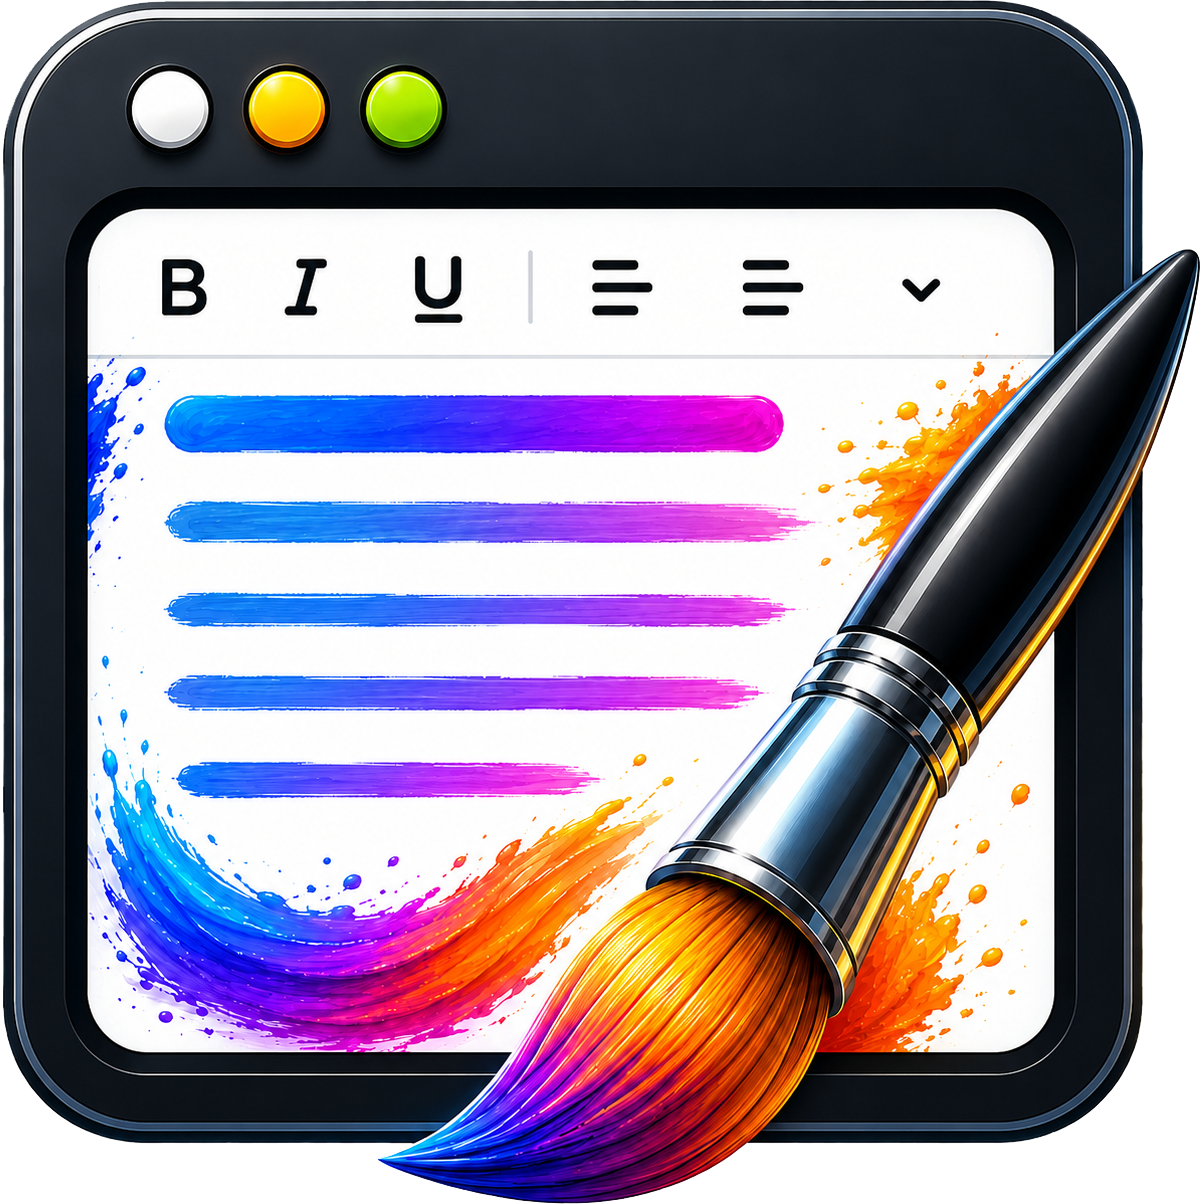
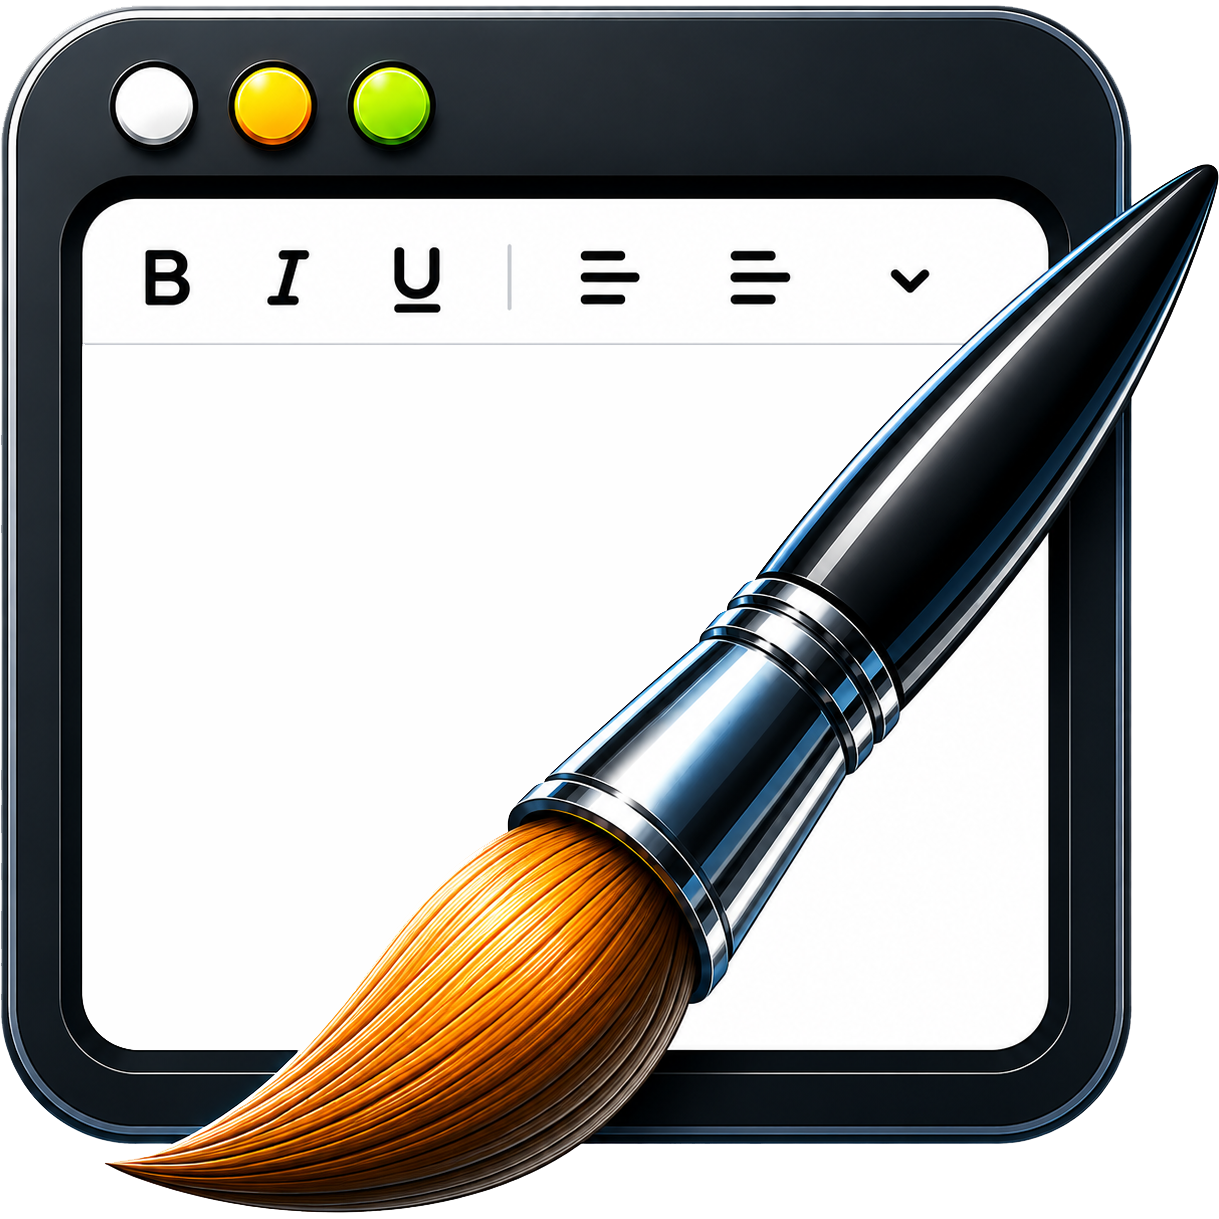
Updating repository.

diff --git a/_framework/dotnet.js b/_framework/dotnet.js
@@ -4,7 +4,7 @@
 var e=!1;const t=async()=>WebAssembly.validate(new Uint8Array([0,97,115,109,1,0,0,0,1,4,1,96,0,0,3,2,1,0,10,8,1,6,0,6,64,25,11,11])),o=async()=>WebAssembly.validate(new Uint8Array([0,97,115,109,1,0,0,0,1,5,1,96,0,1,123,3,2,1,0,10,15,1,13,0,65,1,253,15,65,2,253,15,253,128,2,11])),n=async()=>WebAssembly.validate(new Uint8Array([0,97,115,109,1,0,0,0,1,5,1,96,0,1,123,3,2,1,0,10,10,1,8,0,65,0,253,15,253,98,11])),r=Symbol.for("wasm promise_control");function i(e,t){let o=null;const n=new Promise((function(n,r){o={isDone:!1,promise:null,resolve:t=>{o.isDone||(o.isDone=!0,n(t),e&&e())},reject:e=>{o.isDone||(o.isDone=!0,r(e),t&&t())}}}));o.promise=n;const i=n;return i[r]=o,{promise:i,promise_control:o}}function s(e){return e[r]}function a(e){e&&function(e){return void 0!==e[r]}(e)||Be(!1,"Promise is not controllable")}const l="__mono_message__",c=["debug","log","trace","warn","info","error"],d="MONO_WASM: ";let u,f,m,g,p,h;function w(e){g=e}function b(e){if(Pe.diagnosticTracing){const t="function"==typeof e?e():e;console.debug(d+t)}}function y(e,...t){console.info(d+e,...t)}function v(e,...t){console.info(e,...t)}function E(e,...t){console.warn(d+e,...t)}function _(e,...t){if(t&&t.length>0&&t[0]&&"object"==typeof t[0]){if(t[0].silent)return;if(t[0].toString)return void console.error(d+e,t[0].toString())}console.error(d+e,...t)}function x(e,t,o){return function(...n){try{let r=n[0];if(void 0===r)r="undefined";else if(null===r)r="null";else if("function"==typeof r)r=r.toString();else if("string"!=typeof r)try{r=JSON.stringify(r)}catch(e){r=r.toString()}t(o?JSON.stringify({method:e,payload:r,arguments:n.slice(1)}):[e+r,...n.slice(1)])}catch(e){m.error(`proxyConsole failed: ${e}`)}}}function j(e,t,o){f=t,g=e,m={...t};const n=`${o}/console`.replace("https://","wss://").replace("http://","ws://");u=new WebSocket(n),u.addEventListener("error",A),u.addEventListener("close",S),function(){for(const e of c)f[e]=x(`console.${e}`,T,!0)}()}function R(e){let t=30;const o=()=>{u?0==u.bufferedAmount||0==t?(e&&v(e),function(){for(const e of c)f[e]=x(`console.${e}`,m.log,!1)}(),u.removeEventListener("error",A),u.removeEventListener("close",S),u.close(1e3,e),u=void 0):(t--,globalThis.setTimeout(o,100)):e&&m&&m.log(e)};o()}function T(e){u&&u.readyState===WebSocket.OPEN?u.send(e):m.log(e)}function A(e){m.error(`[${g}] proxy console websocket error: ${e}`,e)}function S(e){m.debug(`[${g}] proxy console websocket closed: ${e}`,e)}function D(){Pe.preferredIcuAsset=O(Pe.config);let e="invariant"==Pe.config.globalizationMode;if(!e)if(Pe.preferredIcuAsset)Pe.diagnosticTracing&&b("ICU data archive(s) available, disabling invariant mode");else{if("custom"===Pe.config.globalizationMode||"all"===Pe.config.globalizationMode||"sharded"===Pe.config.globalizationMode){const e="invariant globalization mode is inactive and no ICU data archives are available";throw _(`ERROR: ${e}`),new Error(e)}Pe.diagnosticTracing&&b("ICU data archive(s) not available, using invariant globalization mode"),e=!0,Pe.preferredIcuAsset=null}const t="DOTNET_SYSTEM_GLOBALIZATION_INVARIANT",o=Pe.config.environmentVariables;if(void 0===o[t]&&e&&(o[t]="1"),void 0===o.TZ)try{const e=Intl.DateTimeFormat().resolvedOptions().timeZone||null;e&&(o.TZ=e)}catch(e){y("failed to detect timezone, will fallback to UTC")}}function O(e){var t;if((null===(t=e.resources)||void 0===t?void 0:t.icu)&&"invariant"!=e.globalizationMode){const t=e.applicationCulture||(ke?globalThis.navigator&&globalThis.navigator.languages&&globalThis.navigator.languages[0]:Intl.DateTimeFormat().resolvedOptions().locale),o=e.resources.icu;let n=null;if("custom"===e.globalizationMode){if(o.length>=1)return o[0].name}else t&&"all"!==e.globalizationMode?"sharded"===e.globalizationMode&&(n=function(e){const t=e.split("-")[0];return"en"===t||["fr","fr-FR","it","it-IT","de","de-DE","es","es-ES"].includes(e)?"icudt_EFIGS.dat":["zh","ko","ja"].includes(t)?"icudt_CJK.dat":"icudt_no_CJK.dat"}(t)):n="icudt.dat";if(n)for(let e=0;e<o.length;e++){const t=o[e];if(t.virtualPath===n)return t.name}}return e.globalizationMode="invariant",null}(new Date).valueOf();const C=class{constructor(e){this.url=e}toString(){return this.url}};async function k(e,t){try{const o="function"==typeof globalThis.fetch;if(Se){const n=e.startsWith("file://");if(!n&&o)return globalThis.fetch(e,t||{credentials:"same-origin"});p||(h=Ne.require("url"),p=Ne.require("fs")),n&&(e=h.fileURLToPath(e));const r=await p.promises.readFile(e);return{ok:!0,headers:{length:0,get:()=>null},url:e,arrayBuffer:()=>r,json:()=>JSON.parse(r),text:()=>{throw new Error("NotImplementedException")}}}if(o)return globalThis.fetch(e,t||{credentials:"same-origin"});if("function"==typeof read)return{ok:!0,url:e,headers:{length:0,get:()=>null},arrayBuffer:()=>new Uint8Array(read(e,"binary")),json:()=>JSON.parse(read(e,"utf8")),text:()=>read(e,"utf8")}}catch(t){return{ok:!1,url:e,status:500,headers:{length:0,get:()=>null},statusText:"ERR28: "+t,arrayBuffer:()=>{throw t},json:()=>{throw t},text:()=>{throw t}}}throw new Error("No fetch implementation available")}function I(e){return"string"!=typeof e&&Be(!1,"url must be a string"),!M(e)&&0!==e.indexOf("./")&&0!==e.indexOf("../")&&globalThis.URL&&globalThis.document&&globalThis.document.baseURI&&(e=new URL(e,globalThis.document.baseURI).toString()),e}const U=/^[a-zA-Z][a-zA-Z\d+\-.]*?:\/\//,P=/[a-zA-Z]:[\\/]/;function M(e){return Se||Ie?e.startsWith("/")||e.startsWith("\\")||-1!==e.indexOf("///")||P.test(e):U.test(e)}let L,N=0;const $=[],z=[],W=new Map,F={"js-module-threads":!0,"js-module-runtime":!0,"js-module-dotnet":!0,"js-module-native":!0,"js-module-diagnostics":!0},B={...F,"js-module-library-initializer":!0},V={...F,dotnetwasm:!0,heap:!0,manifest:!0},q={...B,manifest:!0},H={...B,dotnetwasm:!0},J={dotnetwasm:!0,symbols:!0},Z={...B,dotnetwasm:!0,symbols:!0},Q={symbols:!0};function G(e){return!("icu"==e.behavior&&e.name!=Pe.preferredIcuAsset)}function K(e,t,o){null!=t||(t=[]),Be(1==t.length,`Expect to have one ${o} asset in resources`);const n=t[0];return n.behavior=o,X(n),e.push(n),n}function X(e){V[e.behavior]&&W.set(e.behavior,e)}function Y(e){Be(V[e],`Unknown single asset behavior ${e}`);const t=W.get(e);if(t&&!t.resolvedUrl)if(t.resolvedUrl=Pe.locateFile(t.name),F[t.behavior]){const e=ge(t);e?("string"!=typeof e&&Be(!1,"loadBootResource response for 'dotnetjs' type should be a URL string"),t.resolvedUrl=e):t.resolvedUrl=ce(t.resolvedUrl,t.behavior)}else if("dotnetwasm"!==t.behavior)throw new Error(`Unknown single asset behavior ${e}`);return t}function ee(e){const t=Y(e);return Be(t,`Single asset for ${e} not found`),t}let te=!1;async function oe(){if(!te){te=!0,Pe.diagnosticTracing&&b("mono_download_assets");try{const e=[],t=[],o=(e,t)=>{!Z[e.behavior]&&G(e)&&Pe.expected_instantiated_assets_count++,!H[e.behavior]&&G(e)&&(Pe.expected_downloaded_assets_count++,t.push(se(e)))};for(const t of $)o(t,e);for(const e of z)o(e,t);Pe.allDownloadsQueued.promise_control.resolve(),Promise.all([...e,...t]).then((()=>{Pe.allDownloadsFinished.promise_control.resolve()})).catch((e=>{throw Pe.err("Error in mono_download_assets: "+e),Xe(1,e),e})),await Pe.runtimeModuleLoaded.promise;const n=async e=>{const t=await e;if(t.buffer){if(!Z[t.behavior]){t.buffer&&"object"==typeof t.buffer||Be(!1,"asset buffer must be array-like or buffer-like or promise of these"),"string"!=typeof t.resolvedUrl&&Be(!1,"resolvedUrl must be string");const e=t.resolvedUrl,o=await t.buffer,n=new Uint8Array(o);pe(t),await Ue.beforeOnRuntimeInitialized.promise,Ue.instantiate_asset(t,e,n)}}else J[t.behavior]?("symbols"===t.behavior&&(await Ue.instantiate_symbols_asset(t),pe(t)),J[t.behavior]&&++Pe.actual_downloaded_assets_count):(t.isOptional||Be(!1,"Expected asset to have the downloaded buffer"),!H[t.behavior]&&G(t)&&Pe.expected_downloaded_assets_count--,!Z[t.behavior]&&G(t)&&Pe.expected_instantiated_assets_count--)},r=[],i=[];for(const t of e)r.push(n(t));for(const e of t)i.push(n(e));Promise.all(r).then((()=>{Ce||Ue.coreAssetsInMemory.promise_control.resolve()})).catch((e=>{throw Pe.err("Error in mono_download_assets: "+e),Xe(1,e),e})),Promise.all(i).then((async()=>{Ce||(await Ue.coreAssetsInMemory.promise,Ue.allAssetsInMemory.promise_control.resolve())})).catch((e=>{throw Pe.err("Error in mono_download_assets: "+e),Xe(1,e),e}))}catch(e){throw Pe.err("Error in mono_download_assets: "+e),e}}}let ne=!1;function re(){if(ne)return;ne=!0;const e=Pe.config,t=[];if(e.assets)for(const t of e.assets)"object"!=typeof t&&Be(!1,`asset must be object, it was ${typeof t} : ${t}`),"string"!=typeof t.behavior&&Be(!1,"asset behavior must be known string"),"string"!=typeof t.name&&Be(!1,"asset name must be string"),t.resolvedUrl&&"string"!=typeof t.resolvedUrl&&Be(!1,"asset resolvedUrl could be string"),t.hash&&"string"!=typeof t.hash&&Be(!1,"asset resolvedUrl could be string"),t.pendingDownload&&"object"!=typeof t.pendingDownload&&Be(!1,"asset pendingDownload could be object"),t.isCore?$.push(t):z.push(t),X(t);else if(e.resources){const o=e.resources;o.wasmNative||Be(!1,"resources.wasmNative must be defined"),o.jsModuleNative||Be(!1,"resources.jsModuleNative must be defined"),o.jsModuleRuntime||Be(!1,"resources.jsModuleRuntime must be defined"),K(z,o.wasmNative,"dotnetwasm"),K(t,o.jsModuleNative,"js-module-native"),K(t,o.jsModuleRuntime,"js-module-runtime"),o.jsModuleDiagnostics&&K(t,o.jsModuleDiagnostics,"js-module-diagnostics");const n=(e,t,o)=>{const n=e;n.behavior=t,o?(n.isCore=!0,$.push(n)):z.push(n)};if(o.coreAssembly)for(let e=0;e<o.coreAssembly.length;e++)n(o.coreAssembly[e],"assembly",!0);if(o.assembly)for(let e=0;e<o.assembly.length;e++)n(o.assembly[e],"assembly",!o.coreAssembly);if(0!=e.debugLevel&&Pe.isDebuggingSupported()){if(o.corePdb)for(let e=0;e<o.corePdb.length;e++)n(o.corePdb[e],"pdb",!0);if(o.pdb)for(let e=0;e<o.pdb.length;e++)n(o.pdb[e],"pdb",!o.corePdb)}if(e.loadAllSatelliteResources&&o.satelliteResources)for(const e in o.satelliteResources)for(let t=0;t<o.satelliteResources[e].length;t++){const r=o.satelliteResources[e][t];r.culture=e,n(r,"resource",!o.coreAssembly)}if(o.coreVfs)for(let e=0;e<o.coreVfs.length;e++)n(o.coreVfs[e],"vfs",!0);if(o.vfs)for(let e=0;e<o.vfs.length;e++)n(o.vfs[e],"vfs",!o.coreVfs);const r=O(e);if(r&&o.icu)for(let e=0;e<o.icu.length;e++){const t=o.icu[e];t.name===r&&n(t,"icu",!1)}if(o.wasmSymbols)for(let e=0;e<o.wasmSymbols.length;e++)n(o.wasmSymbols[e],"symbols",!1)}if(e.appsettings)for(let t=0;t<e.appsettings.length;t++){const o=e.appsettings[t],n=he(o);"appsettings.json"!==n&&n!==`appsettings.${e.applicationEnvironment}.json`||z.push({name:o,behavior:"vfs",cache:"no-cache",useCredentials:!0})}e.assets=[...$,...z,...t]}async function ie(e){const t=await se(e);return await t.pendingDownloadInternal.response,t.buffer}async function se(e){try{return await ae(e)}catch(t){if(!Pe.enableDownloadRetry)throw t;if(Ie||Se)throw t;if(e.pendingDownload&&e.pendingDownloadInternal==e.pendingDownload)throw t;if(e.resolvedUrl&&-1!=e.resolvedUrl.indexOf("file://"))throw t;if(t&&404==t.status)throw t;e.pendingDownloadInternal=void 0,await Pe.allDownloadsQueued.promise;try{return Pe.diagnosticTracing&&b(`Retrying download '${e.name}'`),await ae(e)}catch(t){return e.pendingDownloadInternal=void 0,await new Promise((e=>globalThis.setTimeout(e,100))),Pe.diagnosticTracing&&b(`Retrying download (2) '${e.name}' after delay`),await ae(e)}}}async function ae(e){for(;L;)await L.promise;try{++N,N==Pe.maxParallelDownloads&&(Pe.diagnosticTracing&&b("Throttling further parallel downloads"),L=i());const t=await async function(e){if(e.pendingDownload&&(e.pendingDownloadInternal=e.pendingDownload),e.pendingDownloadInternal&&e.pendingDownloadInternal.response)return e.pendingDownloadInternal.response;if(e.buffer){const t=await e.buffer;return e.resolvedUrl||(e.resolvedUrl="undefined://"+e.name),e.pendingDownloadInternal={url:e.resolvedUrl,name:e.name,response:Promise.resolve({ok:!0,arrayBuffer:()=>t,json:()=>JSON.parse(new TextDecoder("utf-8").decode(t)),text:()=>{throw new Error("NotImplementedException")},headers:{get:()=>{}}})},e.pendingDownloadInternal.response}const t=e.loadRemote&&Pe.config.remoteSources?Pe.config.remoteSources:[""];let o;for(let n of t){n=n.trim(),"./"===n&&(n="");const t=le(e,n);e.name===t?Pe.diagnosticTracing&&b(`Attempting to download '${t}'`):Pe.diagnosticTracing&&b(`Attempting to download '${t}' for ${e.name}`);try{e.resolvedUrl=t;const n=fe(e);if(e.pendingDownloadInternal=n,o=await n.response,!o||!o.ok)continue;return o}catch(e){o||(o={ok:!1,url:t,status:0,statusText:""+e});continue}}const n=e.isOptional||e.name.match(/\.pdb$/)&&Pe.config.ignorePdbLoadErrors;if(o||Be(!1,`Response undefined ${e.name}`),!n){const t=new Error(`download '${o.url}' for ${e.name} failed ${o.status} ${o.statusText}`);throw t.status=o.status,t}y(`optional download '${o.url}' for ${e.name} failed ${o.status} ${o.statusText}`)}(e);return t?(J[e.behavior]||(e.buffer=await t.arrayBuffer(),++Pe.actual_downloaded_assets_count),e):e}finally{if(--N,L&&N==Pe.maxParallelDownloads-1){Pe.diagnosticTracing&&b("Resuming more parallel downloads");const e=L;L=void 0,e.promise_control.resolve()}}}function le(e,t){let o;return null==t&&Be(!1,`sourcePrefix must be provided for ${e.name}`),e.resolvedUrl?o=e.resolvedUrl:(o=""===t?"assembly"===e.behavior||"pdb"===e.behavior?e.name:"resource"===e.behavior&&e.culture&&""!==e.culture?`${e.culture}/${e.name}`:e.name:t+e.name,o=ce(Pe.locateFile(o),e.behavior)),o&&"string"==typeof o||Be(!1,"attemptUrl need to be path or url string"),o}function ce(e,t){return Pe.modulesUniqueQuery&&q[t]&&(e+=Pe.modulesUniqueQuery),e}let de=0;const ue=new Set;function fe(e){try{e.resolvedUrl||Be(!1,"Request's resolvedUrl must be set");const t=function(e){let t=e.resolvedUrl;if(Pe.loadBootResource){const o=ge(e);if(o instanceof Promise)return o;"string"==typeof o&&(t=o)}const o={};return e.cache?o.cache=e.cache:Pe.config.disableNoCacheFetch||(o.cache="no-cache"),e.useCredentials?o.credentials="include":!Pe.config.disableIntegrityCheck&&e.hash&&(o.integrity=e.hash),Pe.fetch_like(t,o)}(e),o={name:e.name,url:e.resolvedUrl,response:t};return ue.add(e.name),o.response.then((()=>{"assembly"==e.behavior&&Pe.loadedAssemblies.push(e.name),de++,Pe.onDownloadResourceProgress&&Pe.onDownloadResourceProgress(de,ue.size)})),o}catch(t){const o={ok:!1,url:e.resolvedUrl,status:500,statusText:"ERR29: "+t,arrayBuffer:()=>{throw t},json:()=>{throw t}};return{name:e.name,url:e.resolvedUrl,response:Promise.resolve(o)}}}const me={resource:"assembly",assembly:"assembly",pdb:"pdb",icu:"globalization",vfs:"configuration",manifest:"manifest",dotnetwasm:"dotnetwasm","js-module-dotnet":"dotnetjs","js-module-native":"dotnetjs","js-module-runtime":"dotnetjs","js-module-threads":"dotnetjs"};function ge(e){var t;if(Pe.loadBootResource){const o=null!==(t=e.hash)&&void 0!==t?t:"",n=e.resolvedUrl,r=me[e.behavior];if(r){const t=Pe.loadBootResource(r,e.name,n,o,e.behavior);return"string"==typeof t?I(t):t}}}function pe(e){e.pendingDownloadInternal=null,e.pendingDownload=null,e.buffer=null,e.moduleExports=null}function he(e){let t=e.lastIndexOf("/");return t>=0&&t++,e.substring(t)}async function we(e){e&&await Promise.all((null!=e?e:[]).map((e=>async function(e){try{const t=e.name;if(!e.moduleExports){const o=ce(Pe.locateFile(t),"js-module-library-initializer");Pe.diagnosticTracing&&b(`Attempting to import '${o}' for ${e}`),e.moduleExports=await import(/*! webpackIgnore: true */o)}Pe.libraryInitializers.push({scriptName:t,exports:e.moduleExports})}catch(t){E(`Failed to import library initializer '${e}': ${t}`)}}(e))))}async function be(e,t){if(!Pe.libraryInitializers)return;const o=[];for(let n=0;n<Pe.libraryInitializers.length;n++){const r=Pe.libraryInitializers[n];r.exports[e]&&o.push(ye(r.scriptName,e,(()=>r.exports[e](...t))))}await Promise.all(o)}async function ye(e,t,o){try{await o()}catch(o){throw E(`Failed to invoke '${t}' on library initializer '${e}': ${o}`),Xe(1,o),o}}function ve(e,t){if(e===t)return e;const o={...t};return void 0!==o.assets&&o.assets!==e.assets&&(o.assets=[...e.assets||[],...o.assets||[]]),void 0!==o.resources&&(o.resources=_e(e.resources||{assembly:[],jsModuleNative:[],jsModuleRuntime:[],wasmNative:[]},o.resources)),void 0!==o.environmentVariables&&(o.environmentVariables={...e.environmentVariables||{},...o.environmentVariables||{}}),void 0!==o.runtimeOptions&&o.runtimeOptions!==e.runtimeOptions&&(o.runtimeOptions=[...e.runtimeOptions||[],...o.runtimeOptions||[]]),Object.assign(e,o)}function Ee(e,t){if(e===t)return e;const o={...t};return o.config&&(e.config||(e.config={}),o.config=ve(e.config,o.config)),Object.assign(e,o)}function _e(e,t){if(e===t)return e;const o={...t};return void 0!==o.coreAssembly&&(o.coreAssembly=[...e.coreAssembly||[],...o.coreAssembly||[]]),void 0!==o.assembly&&(o.assembly=[...e.assembly||[],...o.assembly||[]]),void 0!==o.lazyAssembly&&(o.lazyAssembly=[...e.lazyAssembly||[],...o.lazyAssembly||[]]),void 0!==o.corePdb&&(o.corePdb=[...e.corePdb||[],...o.corePdb||[]]),void 0!==o.pdb&&(o.pdb=[...e.pdb||[],...o.pdb||[]]),void 0!==o.jsModuleWorker&&(o.jsModuleWorker=[...e.jsModuleWorker||[],...o.jsModuleWorker||[]]),void 0!==o.jsModuleNative&&(o.jsModuleNative=[...e.jsModuleNative||[],...o.jsModuleNative||[]]),void 0!==o.jsModuleDiagnostics&&(o.jsModuleDiagnostics=[...e.jsModuleDiagnostics||[],...o.jsModuleDiagnostics||[]]),void 0!==o.jsModuleRuntime&&(o.jsModuleRuntime=[...e.jsModuleRuntime||[],...o.jsModuleRuntime||[]]),void 0!==o.wasmSymbols&&(o.wasmSymbols=[...e.wasmSymbols||[],...o.wasmSymbols||[]]),void 0!==o.wasmNative&&(o.wasmNative=[...e.wasmNative||[],...o.wasmNative||[]]),void 0!==o.icu&&(o.icu=[...e.icu||[],...o.icu||[]]),void 0!==o.satelliteResources&&(o.satelliteResources=function(e,t){if(e===t)return e;for(const o in t)e[o]=[...e[o]||[],...t[o]||[]];return e}(e.satelliteResources||{},o.satelliteResources||{})),void 0!==o.modulesAfterConfigLoaded&&(o.modulesAfterConfigLoaded=[...e.modulesAfterConfigLoaded||[],...o.modulesAfterConfigLoaded||[]]),void 0!==o.modulesAfterRuntimeReady&&(o.modulesAfterRuntimeReady=[...e.modulesAfterRuntimeReady||[],...o.modulesAfterRuntimeReady||[]]),void 0!==o.extensions&&(o.extensions={...e.extensions||{},...o.extensions||{}}),void 0!==o.vfs&&(o.vfs=[...e.vfs||[],...o.vfs||[]]),Object.assign(e,o)}function xe(){const e=Pe.config;if(e.environmentVariables=e.environmentVariables||{},e.runtimeOptions=e.runtimeOptions||[],e.resources=e.resources||{assembly:[],jsModuleNative:[],jsModuleWorker:[],jsModuleRuntime:[],wasmNative:[],vfs:[],satelliteResources:{}},e.assets){Pe.diagnosticTracing&&b("config.assets is deprecated, use config.resources instead");for(const t of e.assets){const o={};switch(t.behavior){case"assembly":o.assembly=[t];break;case"pdb":o.pdb=[t];break;case"resource":o.satelliteResources={},o.satelliteResources[t.culture]=[t];break;case"icu":o.icu=[t];break;case"symbols":o.wasmSymbols=[t];break;case"vfs":o.vfs=[t];break;case"dotnetwasm":o.wasmNative=[t];break;case"js-module-threads":o.jsModuleWorker=[t];break;case"js-module-runtime":o.jsModuleRuntime=[t];break;case"js-module-native":o.jsModuleNative=[t];break;case"js-module-diagnostics":o.jsModuleDiagnostics=[t];break;case"js-module-dotnet":break;default:throw new Error(`Unexpected behavior ${t.behavior} of asset ${t.name}`)}_e(e.resources,o)}}e.debugLevel,e.applicationEnvironment||(e.applicationEnvironment="Production"),e.applicationCulture&&(e.environmentVariables.LANG=`${e.applicationCulture}.UTF-8`),Ue.diagnosticTracing=Pe.diagnosticTracing=!!e.diagnosticTracing,Ue.waitForDebugger=e.waitForDebugger,Pe.maxParallelDownloads=e.maxParallelDownloads||Pe.maxParallelDownloads,Pe.enableDownloadRetry=void 0!==e.enableDownloadRetry?e.enableDownloadRetry:Pe.enableDownloadRetry}let je=!1;async function Re(e){var t;if(je)return void await Pe.afterConfigLoaded.promise;let o;try{if(e.configSrc||Pe.config&&0!==Object.keys(Pe.config).length&&(Pe.config.assets||Pe.config.resources)||(e.configSrc="dotnet.boot.js"),o=e.configSrc,je=!0,o&&(Pe.diagnosticTracing&&b("mono_wasm_load_config"),await async function(e){const t=e.configSrc,o=Pe.locateFile(t);let n=null;void 0!==Pe.loadBootResource&&(n=Pe.loadBootResource("manifest",t,o,"","manifest"));let r,i=null;if(n)if("string"==typeof n)n.includes(".json")?(i=await s(I(n)),r=await Ae(i)):r=(await import(I(n))).config;else{const e=await n;"function"==typeof e.json?(i=e,r=await Ae(i)):r=e.config}else o.includes(".json")?(i=await s(ce(o,"manifest")),r=await Ae(i)):r=(await import(ce(o,"manifest"))).config;function s(e){return Pe.fetch_like(e,{method:"GET",credentials:"include",cache:"no-cache"})}Pe.config.applicationEnvironment&&(r.applicationEnvironment=Pe.config.applicationEnvironment),ve(Pe.config,r)}(e)),xe(),await we(null===(t=Pe.config.resources)||void 0===t?void 0:t.modulesAfterConfigLoaded),await be("onRuntimeConfigLoaded",[Pe.config]),e.onConfigLoaded)try{await e.onConfigLoaded(Pe.config,Le),xe()}catch(e){throw _("onConfigLoaded() failed",e),e}xe(),Pe.afterConfigLoaded.promise_control.resolve(Pe.config)}catch(t){const n=`Failed to load config file ${o} ${t} ${null==t?void 0:t.stack}`;throw Pe.config=e.config=Object.assign(Pe.config,{message:n,error:t,isError:!0}),Xe(1,new Error(n)),t}}function Te(){return!!globalThis.navigator&&(Pe.isChromium||Pe.isFirefox)}async function Ae(e){const t=Pe.config,o=await e.json();t.applicationEnvironment||o.applicationEnvironment||(o.applicationEnvironment=e.headers.get("Blazor-Environment")||e.headers.get("DotNet-Environment")||void 0),o.environmentVariables||(o.environmentVariables={});const n=e.headers.get("DOTNET-MODIFIABLE-ASSEMBLIES");n&&(o.environmentVariables.DOTNET_MODIFIABLE_ASSEMBLIES=n);const r=e.headers.get("ASPNETCORE-BROWSER-TOOLS");return r&&(o.environmentVariables.__ASPNETCORE_BROWSER_TOOLS=r),o}"function"!=typeof importScripts||globalThis.onmessage||(globalThis.dotnetSidecar=!0);const Se="object"==typeof process&&"object"==typeof process.versions&&"string"==typeof process.versions.node,De="function"==typeof importScripts,Oe=De&&"undefined"!=typeof dotnetSidecar,Ce=De&&!Oe,ke="object"==typeof window||De&&!Se,Ie=!ke&&!Se;let Ue={},Pe={},Me={},Le={},Ne={},$e=!1;const ze={},We={config:ze},Fe={mono:{},binding:{},internal:Ne,module:We,loaderHelpers:Pe,runtimeHelpers:Ue,diagnosticHelpers:Me,api:Le};function Be(e,t){if(e)return;const o="Assert failed: "+("function"==typeof t?t():t),n=new Error(o);_(o,n),Ue.nativeAbort(n)}function Ve(){return void 0!==Pe.exitCode}function qe(){return Ue.runtimeReady&&!Ve()}function He(){Ve()&&Be(!1,`.NET runtime already exited with ${Pe.exitCode} ${Pe.exitReason}. You can use runtime.runMain() which doesn't exit the runtime.`),Ue.runtimeReady||Be(!1,".NET runtime didn't start yet. Please call dotnet.create() first.")}function Je(){ke&&(globalThis.addEventListener("unhandledrejection",et),globalThis.addEventListener("error",tt))}let Ze,Qe;function Ge(e){Qe&&Qe(e),Xe(e,Pe.exitReason)}function Ke(e){Ze&&Ze(e||Pe.exitReason),Xe(1,e||Pe.exitReason)}function Xe(t,o){var n,r;const i=o&&"object"==typeof o;t=i&&"number"==typeof o.status?o.status:void 0===t?-1:t;const s=i&&"string"==typeof o.message?o.message:""+o;(o=i?o:Ue.ExitStatus?function(e,t){const o=new Ue.ExitStatus(e);return o.message=t,o.toString=()=>t,o}(t,s):new Error("Exit with code "+t+" "+s)).status=t,o.message||(o.message=s);const a=""+(o.stack||(new Error).stack);try{Object.defineProperty(o,"stack",{get:()=>a})}catch(e){}const l=!!o.silent;if(o.silent=!0,Ve())Pe.diagnosticTracing&&b("mono_exit called after exit");else{try{We.onAbort==Ke&&(We.onAbort=Ze),We.onExit==Ge&&(We.onExit=Qe),ke&&(globalThis.removeEventListener("unhandledrejection",et),globalThis.removeEventListener("error",tt)),Ue.runtimeReady?(Ue.jiterpreter_dump_stats&&Ue.jiterpreter_dump_stats(!1),0===t&&(null===(n=Pe.config)||void 0===n?void 0:n.interopCleanupOnExit)&&Ue.forceDisposeProxies(!0,!0),e&&0!==t&&(null===(r=Pe.config)||void 0===r||r.dumpThreadsOnNonZeroExit)):(Pe.diagnosticTracing&&b(`abort_startup, reason: ${o}`),function(e){Pe.allDownloadsQueued.promise_control.reject(e),Pe.allDownloadsFinished.promise_control.reject(e),Pe.afterConfigLoaded.promise_control.reject(e),Pe.wasmCompilePromise.promise_control.reject(e),Pe.runtimeModuleLoaded.promise_control.reject(e),Ue.dotnetReady&&(Ue.dotnetReady.promise_control.reject(e),Ue.afterInstantiateWasm.promise_control.reject(e),Ue.beforePreInit.promise_control.reject(e),Ue.afterPreInit.promise_control.reject(e),Ue.afterPreRun.promise_control.reject(e),Ue.beforeOnRuntimeInitialized.promise_control.reject(e),Ue.afterOnRuntimeInitialized.promise_control.reject(e),Ue.afterPostRun.promise_control.reject(e))}(o))}catch(e){E("mono_exit A failed",e)}try{l||(function(e,t){if(0!==e&&t){const e=Ue.ExitStatus&&t instanceof Ue.ExitStatus?b:_;"string"==typeof t?e(t):(void 0===t.stack&&(t.stack=(new Error).stack+""),t.message?e(Ue.stringify_as_error_with_stack?Ue.stringify_as_error_with_stack(t.message+"\n"+t.stack):t.message+"\n"+t.stack):e(JSON.stringify(t)))}!Ce&&Pe.config&&(Pe.config.logExitCode?Pe.config.forwardConsoleLogsToWS?R("WASM EXIT "+e):v("WASM EXIT "+e):Pe.config.forwardConsoleLogsToWS&&R())}(t,o),function(e){if(ke&&!Ce&&Pe.config&&Pe.config.appendElementOnExit&&document){const t=document.createElement("label");t.id="tests_done",0!==e&&(t.style.background="red"),t.innerHTML=""+e,document.body.appendChild(t)}}(t))}catch(e){E("mono_exit B failed",e)}Pe.exitCode=t,Pe.exitReason||(Pe.exitReason=o),!Ce&&Ue.runtimeReady&&We.runtimeKeepalivePop()}if(Pe.config&&Pe.config.asyncFlushOnExit&&0===t)throw(async()=>{try{await async function(){try{const e=await import(/*! webpackIgnore: true */"process"),t=e=>new Promise(((t,o)=>{e.on("error",o),e.end("","utf8",t)})),o=t(e.stderr),n=t(e.stdout);let r;const i=new Promise((e=>{r=setTimeout((()=>e("timeout")),1e3)}));await Promise.race([Promise.all([n,o]),i]),clearTimeout(r)}catch(e){_(`flushing std* streams failed: ${e}`)}}()}finally{Ye(t,o)}})(),o;Ye(t,o)}function Ye(e,t){if(Ue.runtimeReady&&Ue.nativeExit)try{Ue.nativeExit(e)}catch(e){!Ue.ExitStatus||e instanceof Ue.ExitStatus||E("set_exit_code_and_quit_now failed: "+e.toString())}if(0!==e||!ke)throw Se&&Ne.process?Ne.process.exit(e):Ue.quit&&Ue.quit(e,t),t}function et(e){ot(e,e.reason,"rejection")}function tt(e){ot(e,e.error,"error")}function ot(e,t,o){e.preventDefault();try{t||(t=new Error("Unhandled "+o)),void 0===t.stack&&(t.stack=(new Error).stack),t.stack=t.stack+"",t.silent||(_("Unhandled error:",t),Xe(1,t))}catch(e){}}!function(e){if($e)throw new Error("Loader module already loaded");$e=!0,Ue=e.runtimeHelpers,Pe=e.loaderHelpers,Me=e.diagnosticHelpers,Le=e.api,Ne=e.internal,Object.assign(Le,{INTERNAL:Ne,invokeLibraryInitializers:be}),Object.assign(e.module,{config:ve(ze,{environmentVariables:{}})});const r={mono_wasm_bindings_is_ready:!1,config:e.module.config,diagnosticTracing:!1,nativeAbort:e=>{throw e||new Error("abort")},nativeExit:e=>{throw new Error("exit:"+e)}},l={gitHash:"94ea82652cdd4e0f8046b5bd5becbd11461482ca",config:e.module.config,diagnosticTracing:!1,maxParallelDownloads:16,enableDownloadRetry:!0,_loaded_files:[],loadedFiles:[],loadedAssemblies:[],libraryInitializers:[],workerNextNumber:1,actual_downloaded_assets_count:0,actual_instantiated_assets_count:0,expected_downloaded_assets_count:0,expected_instantiated_assets_count:0,afterConfigLoaded:i(),allDownloadsQueued:i(),allDownloadsFinished:i(),wasmCompilePromise:i(),runtimeModuleLoaded:i(),loadingWorkers:i(),is_exited:Ve,is_runtime_running:qe,assert_runtime_running:He,mono_exit:Xe,createPromiseController:i,getPromiseController:s,assertIsControllablePromise:a,mono_download_assets:oe,resolve_single_asset_path:ee,setup_proxy_console:j,set_thread_prefix:w,installUnhandledErrorHandler:Je,retrieve_asset_download:ie,invokeLibraryInitializers:be,isDebuggingSupported:Te,exceptions:t,simd:n,relaxedSimd:o};Object.assign(Ue,r),Object.assign(Pe,l)}(Fe);let nt,rt,it,st=!1,at=!1;async function lt(e){if(!at){if(at=!0,ke&&Pe.config.forwardConsoleLogsToWS&&void 0!==globalThis.WebSocket&&j("main",globalThis.console,globalThis.location.origin),We||Be(!1,"Null moduleConfig"),Pe.config||Be(!1,"Null moduleConfig.config"),"function"==typeof e){const t=e(Fe.api);if(t.ready)throw new Error("Module.ready couldn't be redefined.");Object.assign(We,t),Ee(We,t)}else{if("object"!=typeof e)throw new Error("Can't use moduleFactory callback of createDotnetRuntime function.");Ee(We,e)}await async function(e){if(Se){const e=await import(/*! webpackIgnore: true */"process"),t=14;if(e.versions.node.split(".")[0]<t)throw new Error(`NodeJS at '${e.execPath}' has too low version '${e.versions.node}', please use at least ${t}. See also https://aka.ms/dotnet-wasm-features`)}const t=/*! webpackIgnore: true */import.meta.url,o=t.indexOf("?");var n;if(o>0&&(Pe.modulesUniqueQuery=t.substring(o)),Pe.scriptUrl=t.replace(/\\/g,"/").replace(/[?#].*/,""),Pe.scriptDirectory=(n=Pe.scriptUrl).slice(0,n.lastIndexOf("/"))+"/",Pe.locateFile=e=>"URL"in globalThis&&globalThis.URL!==C?new URL(e,Pe.scriptDirectory).toString():M(e)?e:Pe.scriptDirectory+e,Pe.fetch_like=k,Pe.out=console.log,Pe.err=console.error,Pe.onDownloadResourceProgress=e.onDownloadResourceProgress,ke&&globalThis.navigator){const e=globalThis.navigator,t=e.userAgentData&&e.userAgentData.brands;t&&t.length>0?Pe.isChromium=t.some((e=>"Google Chrome"===e.brand||"Microsoft Edge"===e.brand||"Chromium"===e.brand)):e.userAgent&&(Pe.isChromium=e.userAgent.includes("Chrome"),Pe.isFirefox=e.userAgent.includes("Firefox"))}Ne.require=Se?await import(/*! webpackIgnore: true */"module").then((e=>e.createRequire(/*! webpackIgnore: true */import.meta.url))):Promise.resolve((()=>{throw new Error("require not supported")})),void 0===globalThis.URL&&(globalThis.URL=C)}(We)}}async function ct(e){return await lt(e),Ze=We.onAbort,Qe=We.onExit,We.onAbort=Ke,We.onExit=Ge,We.ENVIRONMENT_IS_PTHREAD?async function(){(function(){const e=new MessageChannel,t=e.port1,o=e.port2;t.addEventListener("message",(e=>{var n,r;n=JSON.parse(e.data.config),r=JSON.parse(e.data.monoThreadInfo),st?Pe.diagnosticTracing&&b("mono config already received"):(ve(Pe.config,n),Ue.monoThreadInfo=r,xe(),Pe.diagnosticTracing&&b("mono config received"),st=!0,Pe.afterConfigLoaded.promise_control.resolve(Pe.config),ke&&n.forwardConsoleLogsToWS&&void 0!==globalThis.WebSocket&&Pe.setup_proxy_console("worker-idle",console,globalThis.location.origin)),t.close(),o.close()}),{once:!0}),t.start(),self.postMessage({[l]:{monoCmd:"preload",port:o}},[o])})(),await Pe.afterConfigLoaded.promise,function(){const e=Pe.config;e.assets||Be(!1,"config.assets must be defined");for(const t of e.assets)X(t),Q[t.behavior]&&z.push(t)}(),setTimeout((async()=>{try{await oe()}catch(e){Xe(1,e)}}),0);const e=dt(),t=await Promise.all(e);return await ut(t),We}():async function(){var e;await Re(We),re();const t=dt();(async function(){try{const e=ee("dotnetwasm");await se(e),e&&e.pendingDownloadInternal&&e.pendingDownloadInternal.response||Be(!1,"Can't load dotnet.native.wasm");const t=await e.pendingDownloadInternal.response,o=t.headers&&t.headers.get?t.headers.get("Content-Type"):void 0;let n;if("function"==typeof WebAssembly.compileStreaming&&"application/wasm"===o)n=await WebAssembly.compileStreaming(t);else{ke&&"application/wasm"!==o&&E('WebAssembly resource does not have the expected content type "application/wasm", so falling back to slower ArrayBuffer instantiation.');const e=await t.arrayBuffer();Pe.diagnosticTracing&&b("instantiate_wasm_module buffered"),n=Ie?await Promise.resolve(new WebAssembly.Module(e)):await WebAssembly.compile(e)}e.pendingDownloadInternal=null,e.pendingDownload=null,e.buffer=null,e.moduleExports=null,Pe.wasmCompilePromise.promise_control.resolve(n)}catch(e){Pe.wasmCompilePromise.promise_control.reject(e)}})(),setTimeout((async()=>{try{D(),await oe()}catch(e){Xe(1,e)}}),0);const o=await Promise.all(t);return await ut(o),await Ue.dotnetReady.promise,await we(null===(e=Pe.config.resources)||void 0===e?void 0:e.modulesAfterRuntimeReady),await be("onRuntimeReady",[Fe.api]),Le}()}function dt(){const e=ee("js-module-runtime"),t=ee("js-module-native");if(nt&&rt)return[nt,rt,it];"object"==typeof e.moduleExports?nt=e.moduleExports:(Pe.diagnosticTracing&&b(`Attempting to import '${e.resolvedUrl}' for ${e.name}`),nt=import(/*! webpackIgnore: true */e.resolvedUrl)),"object"==typeof t.moduleExports?rt=t.moduleExports:(Pe.diagnosticTracing&&b(`Attempting to import '${t.resolvedUrl}' for ${t.name}`),rt=import(/*! webpackIgnore: true */t.resolvedUrl));const o=Y("js-module-diagnostics");return o&&("object"==typeof o.moduleExports?it=o.moduleExports:(Pe.diagnosticTracing&&b(`Attempting to import '${o.resolvedUrl}' for ${o.name}`),it=import(/*! webpackIgnore: true */o.resolvedUrl))),[nt,rt,it]}async function ut(e){const{initializeExports:t,initializeReplacements:o,configureRuntimeStartup:n,configureEmscriptenStartup:r,configureWorkerStartup:i,setRuntimeGlobals:s,passEmscriptenInternals:a}=e[0],{default:l}=e[1],c=e[2];s(Fe),t(Fe),c&&c.setRuntimeGlobals(Fe),await n(We),Pe.runtimeModuleLoaded.promise_control.resolve(),l((e=>(Object.assign(We,{ready:e.ready,__dotnet_runtime:{initializeReplacements:o,configureEmscriptenStartup:r,configureWorkerStartup:i,passEmscriptenInternals:a}}),We))).catch((e=>{if(e.message&&e.message.toLowerCase().includes("out of memory"))throw new Error(".NET runtime has failed to start, because too much memory was requested. Please decrease the memory by adjusting EmccMaximumHeapSize. See also https://aka.ms/dotnet-wasm-features");throw e}))}const ft=new class{withModuleConfig(e){try{return Ee(We,e),this}catch(e){throw Xe(1,e),e}}withOnConfigLoaded(e){try{return Ee(We,{onConfigLoaded:e}),this}catch(e){throw Xe(1,e),e}}withConsoleForwarding(){try{return ve(ze,{forwardConsoleLogsToWS:!0}),this}catch(e){throw Xe(1,e),e}}withExitOnUnhandledError(){try{return ve(ze,{exitOnUnhandledError:!0}),Je(),this}catch(e){throw Xe(1,e),e}}withAsyncFlushOnExit(){try{return ve(ze,{asyncFlushOnExit:!0}),this}catch(e){throw Xe(1,e),e}}withExitCodeLogging(){try{return ve(ze,{logExitCode:!0}),this}catch(e){throw Xe(1,e),e}}withElementOnExit(){try{return ve(ze,{appendElementOnExit:!0}),this}catch(e){throw Xe(1,e),e}}withInteropCleanupOnExit(){try{return ve(ze,{interopCleanupOnExit:!0}),this}catch(e){throw Xe(1,e),e}}withDumpThreadsOnNonZeroExit(){try{return ve(ze,{dumpThreadsOnNonZeroExit:!0}),this}catch(e){throw Xe(1,e),e}}withWaitingForDebugger(e){try{return ve(ze,{waitForDebugger:e}),this}catch(e){throw Xe(1,e),e}}withInterpreterPgo(e,t){try{return ve(ze,{interpreterPgo:e,interpreterPgoSaveDelay:t}),ze.runtimeOptions?ze.runtimeOptions.push("--interp-pgo-recording"):ze.runtimeOptions=["--interp-pgo-recording"],this}catch(e){throw Xe(1,e),e}}withConfig(e){try{return ve(ze,e),this}catch(e){throw Xe(1,e),e}}withConfigSrc(e){try{return e&&"string"==typeof e||Be(!1,"must be file path or URL"),Ee(We,{configSrc:e}),this}catch(e){throw Xe(1,e),e}}withVirtualWorkingDirectory(e){try{return e&&"string"==typeof e||Be(!1,"must be directory path"),ve(ze,{virtualWorkingDirectory:e}),this}catch(e){throw Xe(1,e),e}}withEnvironmentVariable(e,t){try{const o={};return o[e]=t,ve(ze,{environmentVariables:o}),this}catch(e){throw Xe(1,e),e}}withEnvironmentVariables(e){try{return e&&"object"==typeof e||Be(!1,"must be dictionary object"),ve(ze,{environmentVariables:e}),this}catch(e){throw Xe(1,e),e}}withDiagnosticTracing(e){try{return"boolean"!=typeof e&&Be(!1,"must be boolean"),ve(ze,{diagnosticTracing:e}),this}catch(e){throw Xe(1,e),e}}withDebugging(e){try{return null!=e&&"number"==typeof e||Be(!1,"must be number"),ve(ze,{debugLevel:e}),this}catch(e){throw Xe(1,e),e}}withApplicationArguments(...e){try{return e&&Array.isArray(e)||Be(!1,"must be array of strings"),ve(ze,{applicationArguments:e}),this}catch(e){throw Xe(1,e),e}}withRuntimeOptions(e){try{return e&&Array.isArray(e)||Be(!1,"must be array of strings"),ze.runtimeOptions?ze.runtimeOptions.push(...e):ze.runtimeOptions=e,this}catch(e){throw Xe(1,e),e}}withMainAssembly(e){try{return ve(ze,{mainAssemblyName:e}),this}catch(e){throw Xe(1,e),e}}withApplicationArgumentsFromQuery(){try{if(!globalThis.window)throw new Error("Missing window to the query parameters from");if(void 0===globalThis.URLSearchParams)throw new Error("URLSearchParams is supported");const e=new URLSearchParams(globalThis.window.location.search).getAll("arg");return this.withApplicationArguments(...e)}catch(e){throw Xe(1,e),e}}withApplicationEnvironment(e){try{return ve(ze,{applicationEnvironment:e}),this}catch(e){throw Xe(1,e),e}}withApplicationCulture(e){try{return ve(ze,{applicationCulture:e}),this}catch(e){throw Xe(1,e),e}}withResourceLoader(e){try{return Pe.loadBootResource=e,this}catch(e){throw Xe(1,e),e}}async download(){try{await async function(){lt(We),await Re(We),re(),D(),oe(),await Pe.allDownloadsFinished.promise}()}catch(e){throw Xe(1,e),e}}async create(){try{return this.instance||(this.instance=await async function(){return await ct(We),Fe.api}()),this.instance}catch(e){throw Xe(1,e),e}}async run(){try{return We.config||Be(!1,"Null moduleConfig.config"),this.instance||await this.create(),this.instance.runMainAndExit()}catch(e){throw Xe(1,e),e}}},mt=Xe,gt=ct;Ie||"function"==typeof globalThis.URL||Be(!1,"This browser/engine doesn't support URL API. Please use a modern version. See also https://aka.ms/dotnet-wasm-features"),"function"!=typeof globalThis.BigInt64Array&&Be(!1,"This browser/engine doesn't support BigInt64Array API. Please use a modern version. See also https://aka.ms/dotnet-wasm-features"),ft.withConfig(/*json-start*/{
   "mainAssemblyName": "GithubPages",
   "resources": {
-    "hash": "sha256-fdT9+Cm2kkoXsw1L0ao0/f+5cZdbwtv9bsvb8GYcu6I=",
+    "hash": "sha256-tGS8zG4JLoUF48owmwzrrL+T8BL4FSkQ+5qmbEJmVZk=",
     "jsModuleNative": [
       {
         "name": "dotnet.native.z49vxemcj2.js"
@@ -167,8 +167,8 @@ var e=!1;const t=async()=>WebAssembly.validate(new Uint8Array([0,97,115,109,1,0,
       },
       {
         "virtualPath": "RTBlazorfied.wasm",
-        "name": "RTBlazorfied.hh9bzb1yua.wasm",
-        "hash": "sha256-O1y4UAlygN/ZhOgBRAp2/MB3ekoeLMFb1pCD09kcCTQ=",
+        "name": "RTBlazorfied.h9adc9wkoe.wasm",
+        "hash": "sha256-yzrU1BLYoN3E2+Rv8hKoPb6b4VO7mPbhtRDE1qJVeL4=",
         "cache": "force-cache"
       },
       {
@@ -371,8 +371,8 @@ var e=!1;const t=async()=>WebAssembly.validate(new Uint8Array([0,97,115,109,1,0,
       },
       {
         "virtualPath": "GithubPages.wasm",
-        "name": "GithubPages.jnes5mujq1.wasm",
-        "hash": "sha256-0enA1VkG5Kq44gMFIVZd86dieqwBF2CRGK7J0UXzQxY=",
+        "name": "GithubPages.zutnvtcphq.wasm",
+        "hash": "sha256-6wky5fXU6X9mTjmqdzFO+ORSriwEG0EuXYXjy+G4yno=",
         "cache": "force-cache"
       }
     ]